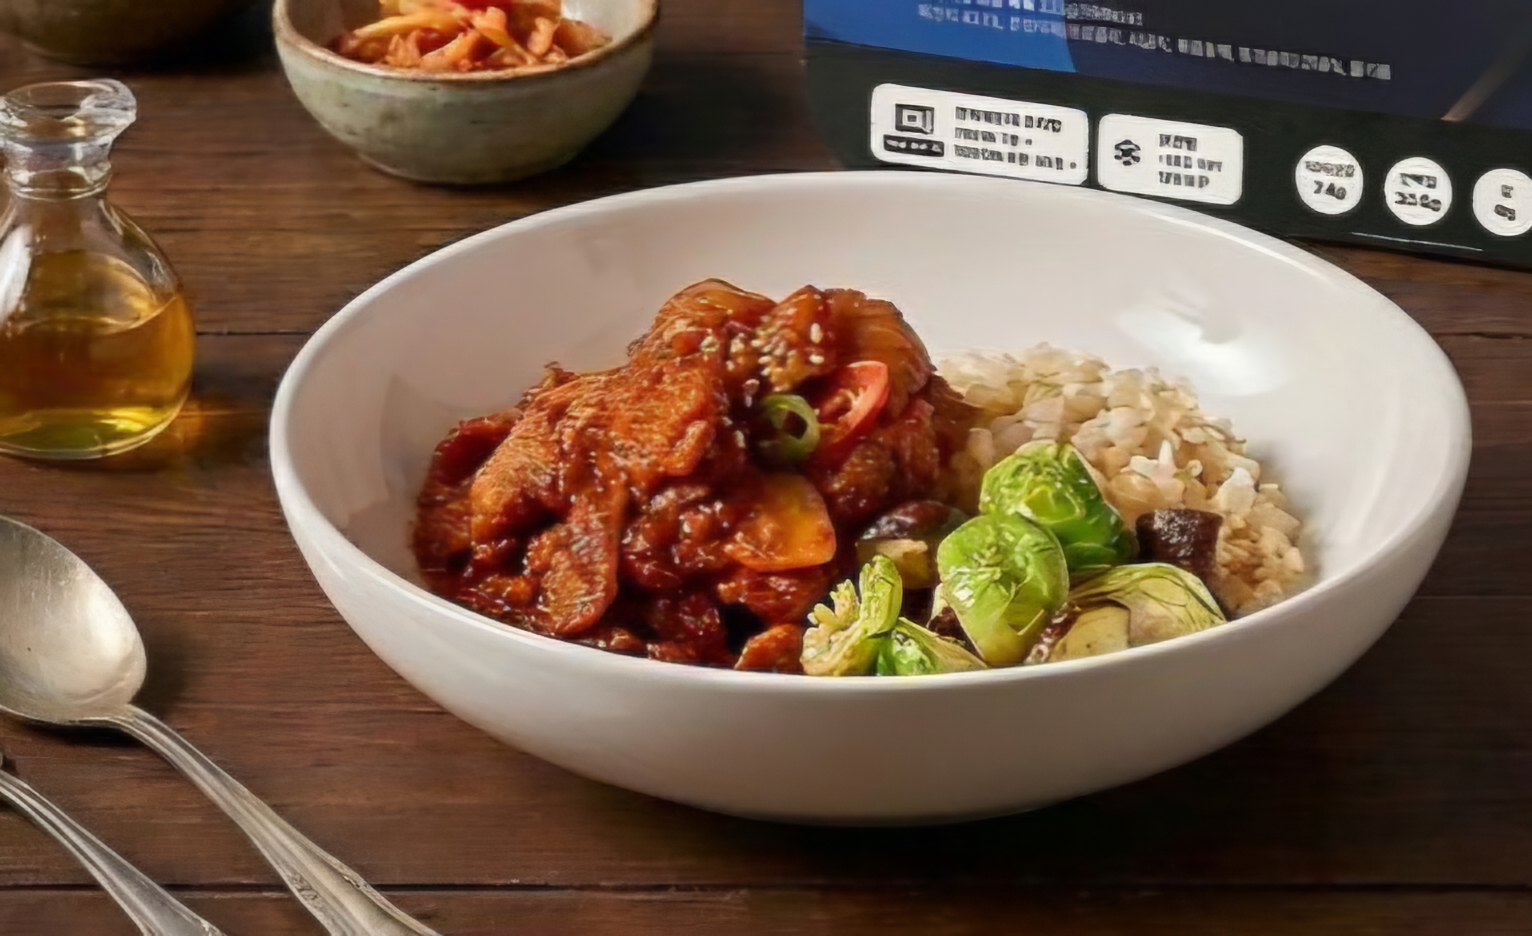
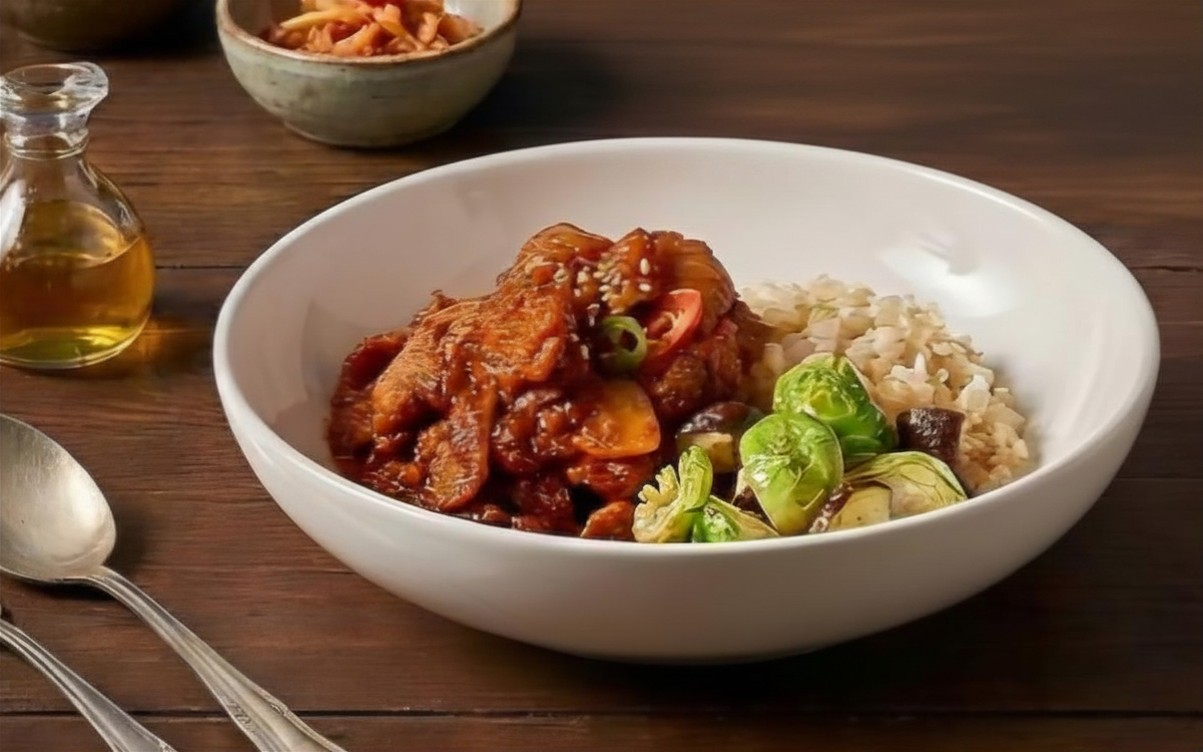
plating

diff --git a/weekly-menu.html b/weekly-menu.html
@@ -503,7 +503,7 @@
     
    <a href="recipes/creamy-chicken-carbonara.html" class="meal-card" data-cat="chicken">
       <div class="meal-img">
-        <img src="images/Steak.jpg" alt="a1"
+        <img src="images/chuck-steak.jpg" alt="a1"
              onerror="this.style.display='none';this.parentElement.querySelector('.meal-img-ph').style.display='flex'">
         <span class="meal-badge b-top">최고 평가</span>
       </div>
@@ -599,7 +599,7 @@
 
     <a href="recipes/creamy-chicken-carbonara.html" class="meal-card" data-cat="chicken">
       <div class="meal-img">
-        <img src="images/Subid-pork-rice-plate.jpg" alt="a1"
+        <img src="images/subid-pork-belly-soybean2.jpg" alt="a1"
              onerror="this.style.display='none';this.parentElement.querySelector('.meal-img-ph').style.display='flex'">
         
       </div>
